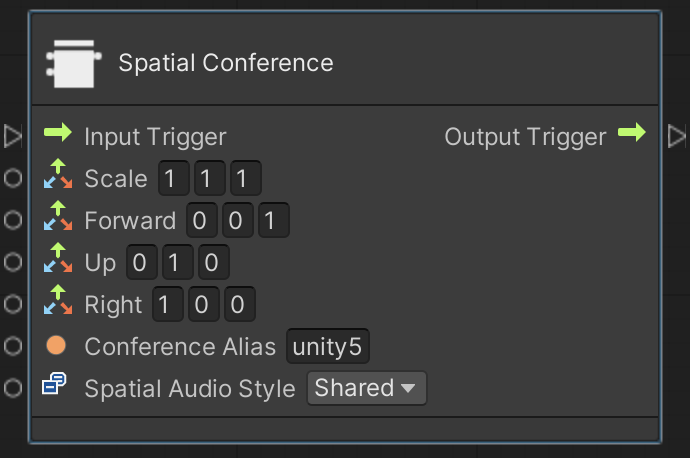
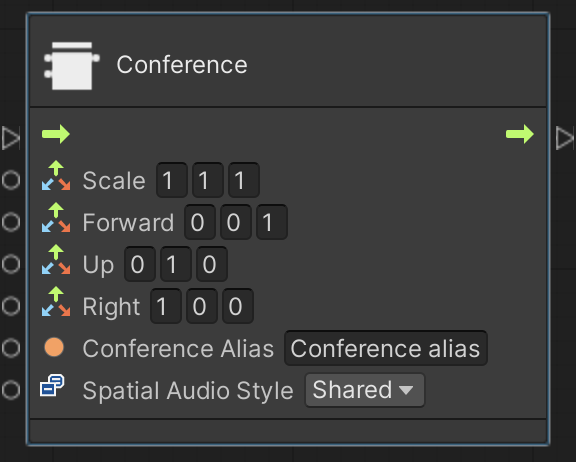
Renamed Spatial Conference to Conference and updated it's image

Changed region(s): [[0.0, 0.0, 1.0, 0.9782]]

diff --git a/docs/documentation/unity/visualscripting/nodes.md b/docs/documentation/unity/visualscripting/nodes.md
@@ -43,7 +43,7 @@ A helper node that retrieves a client access token directly from within the Unit
 | **Token Action** | Output | System.Func<string> | A function that returns the access token. It can be linked to the [Initialize](#initialize) node. |
 
 ---
-### Spatial Conference
+### Conference
 
 Connects to a conference with preferred spatial audio style and the settings of the 3D environment. If the conference does not exist, this operation automatically creates the conference. 
 <div style="text-align:left">
